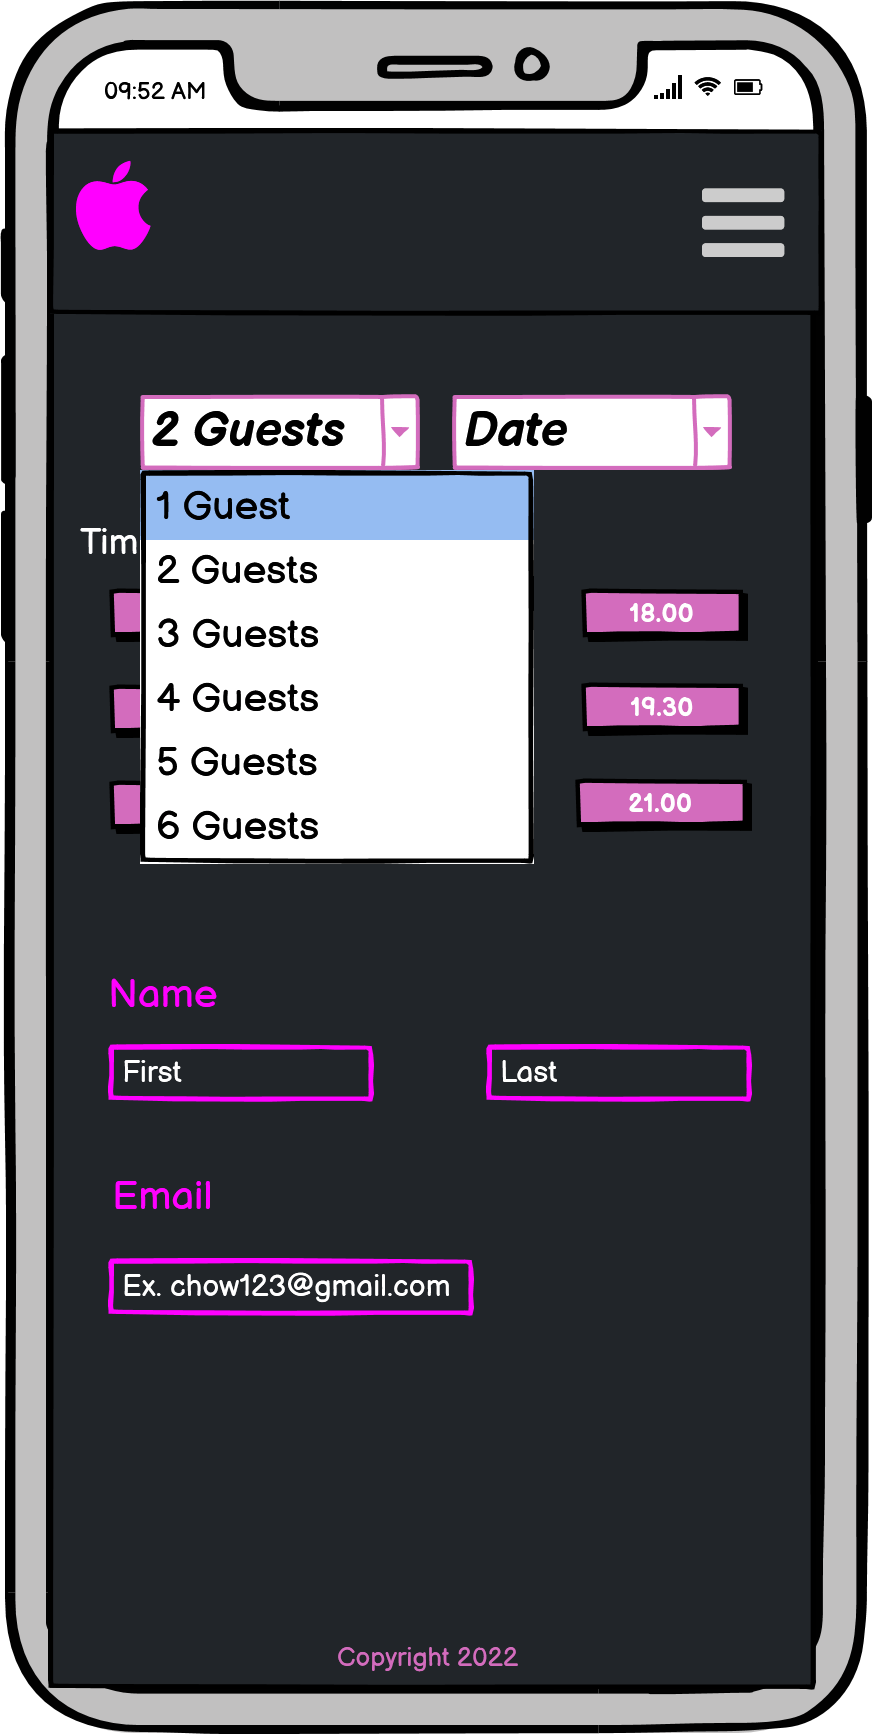
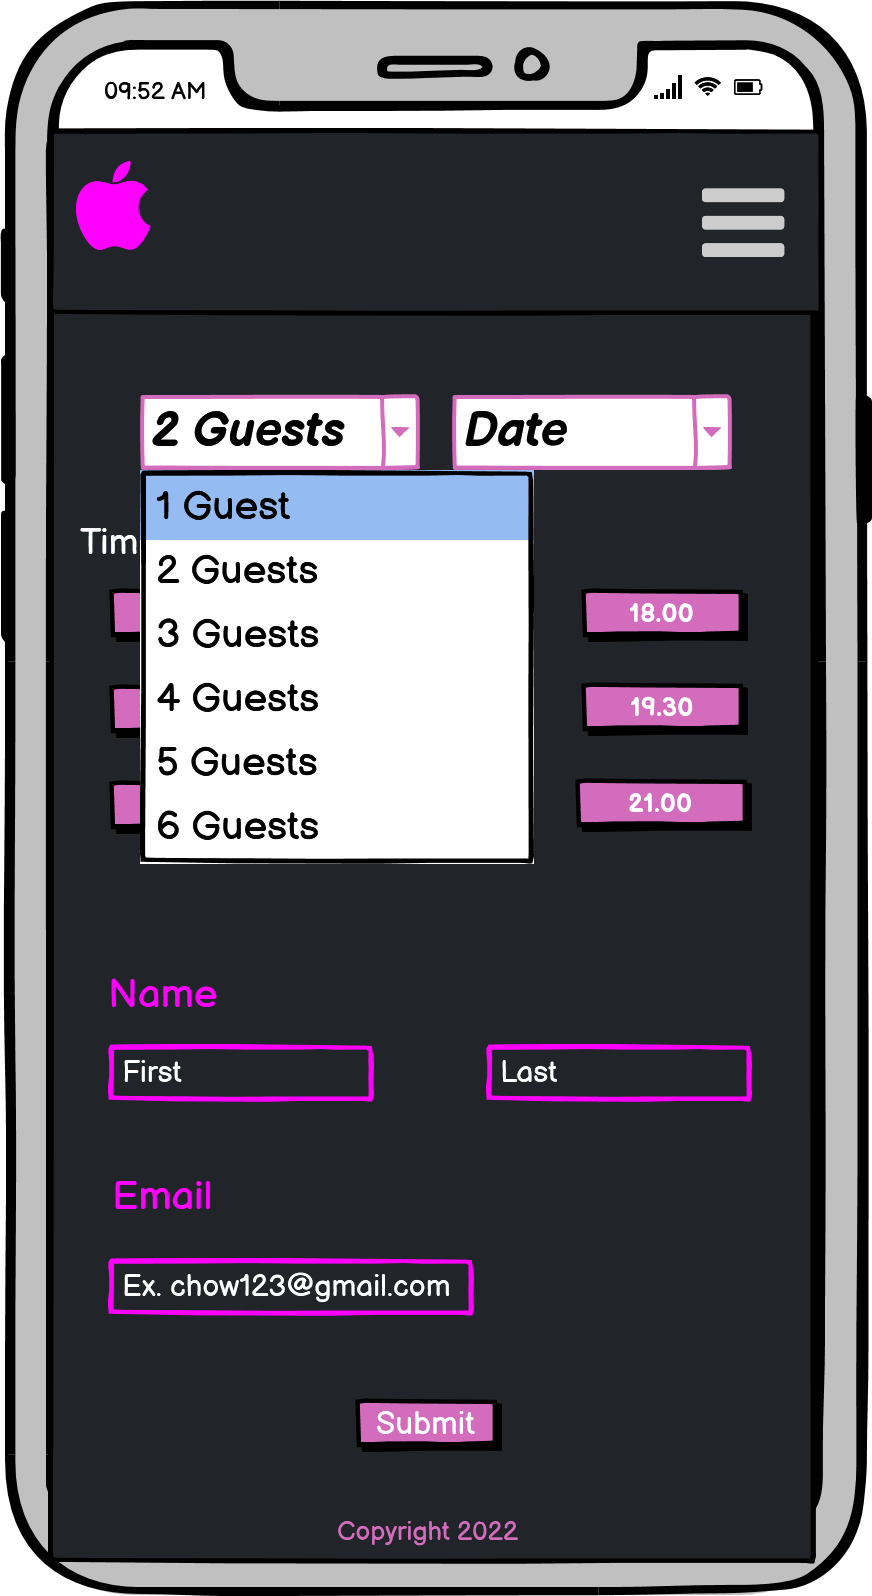
Added updated wireframe images with submit button on reservation page

diff --git a/README.md b/README.md
@@ -80,7 +80,7 @@ At this point in time I only have the index.html page running but will implement
 
 - Create the backend for the website that allows functionality between colliding dates and times.
 - Create a downloadable pdf version of the food menu by adding a clikable link to the page.
-- Add a google maps image of the address when on the **About Us** page or have google maps open when clicking on the address on the footer.
+- Add a google maps image of the address when on the **Reservation Page** page or have google maps open when clicking on the address on the footer.
 - Have a notification window pop up when clicking on the phone number on the footer that allows one to make the call directly without having to type the numbers manually.
 
 ----
